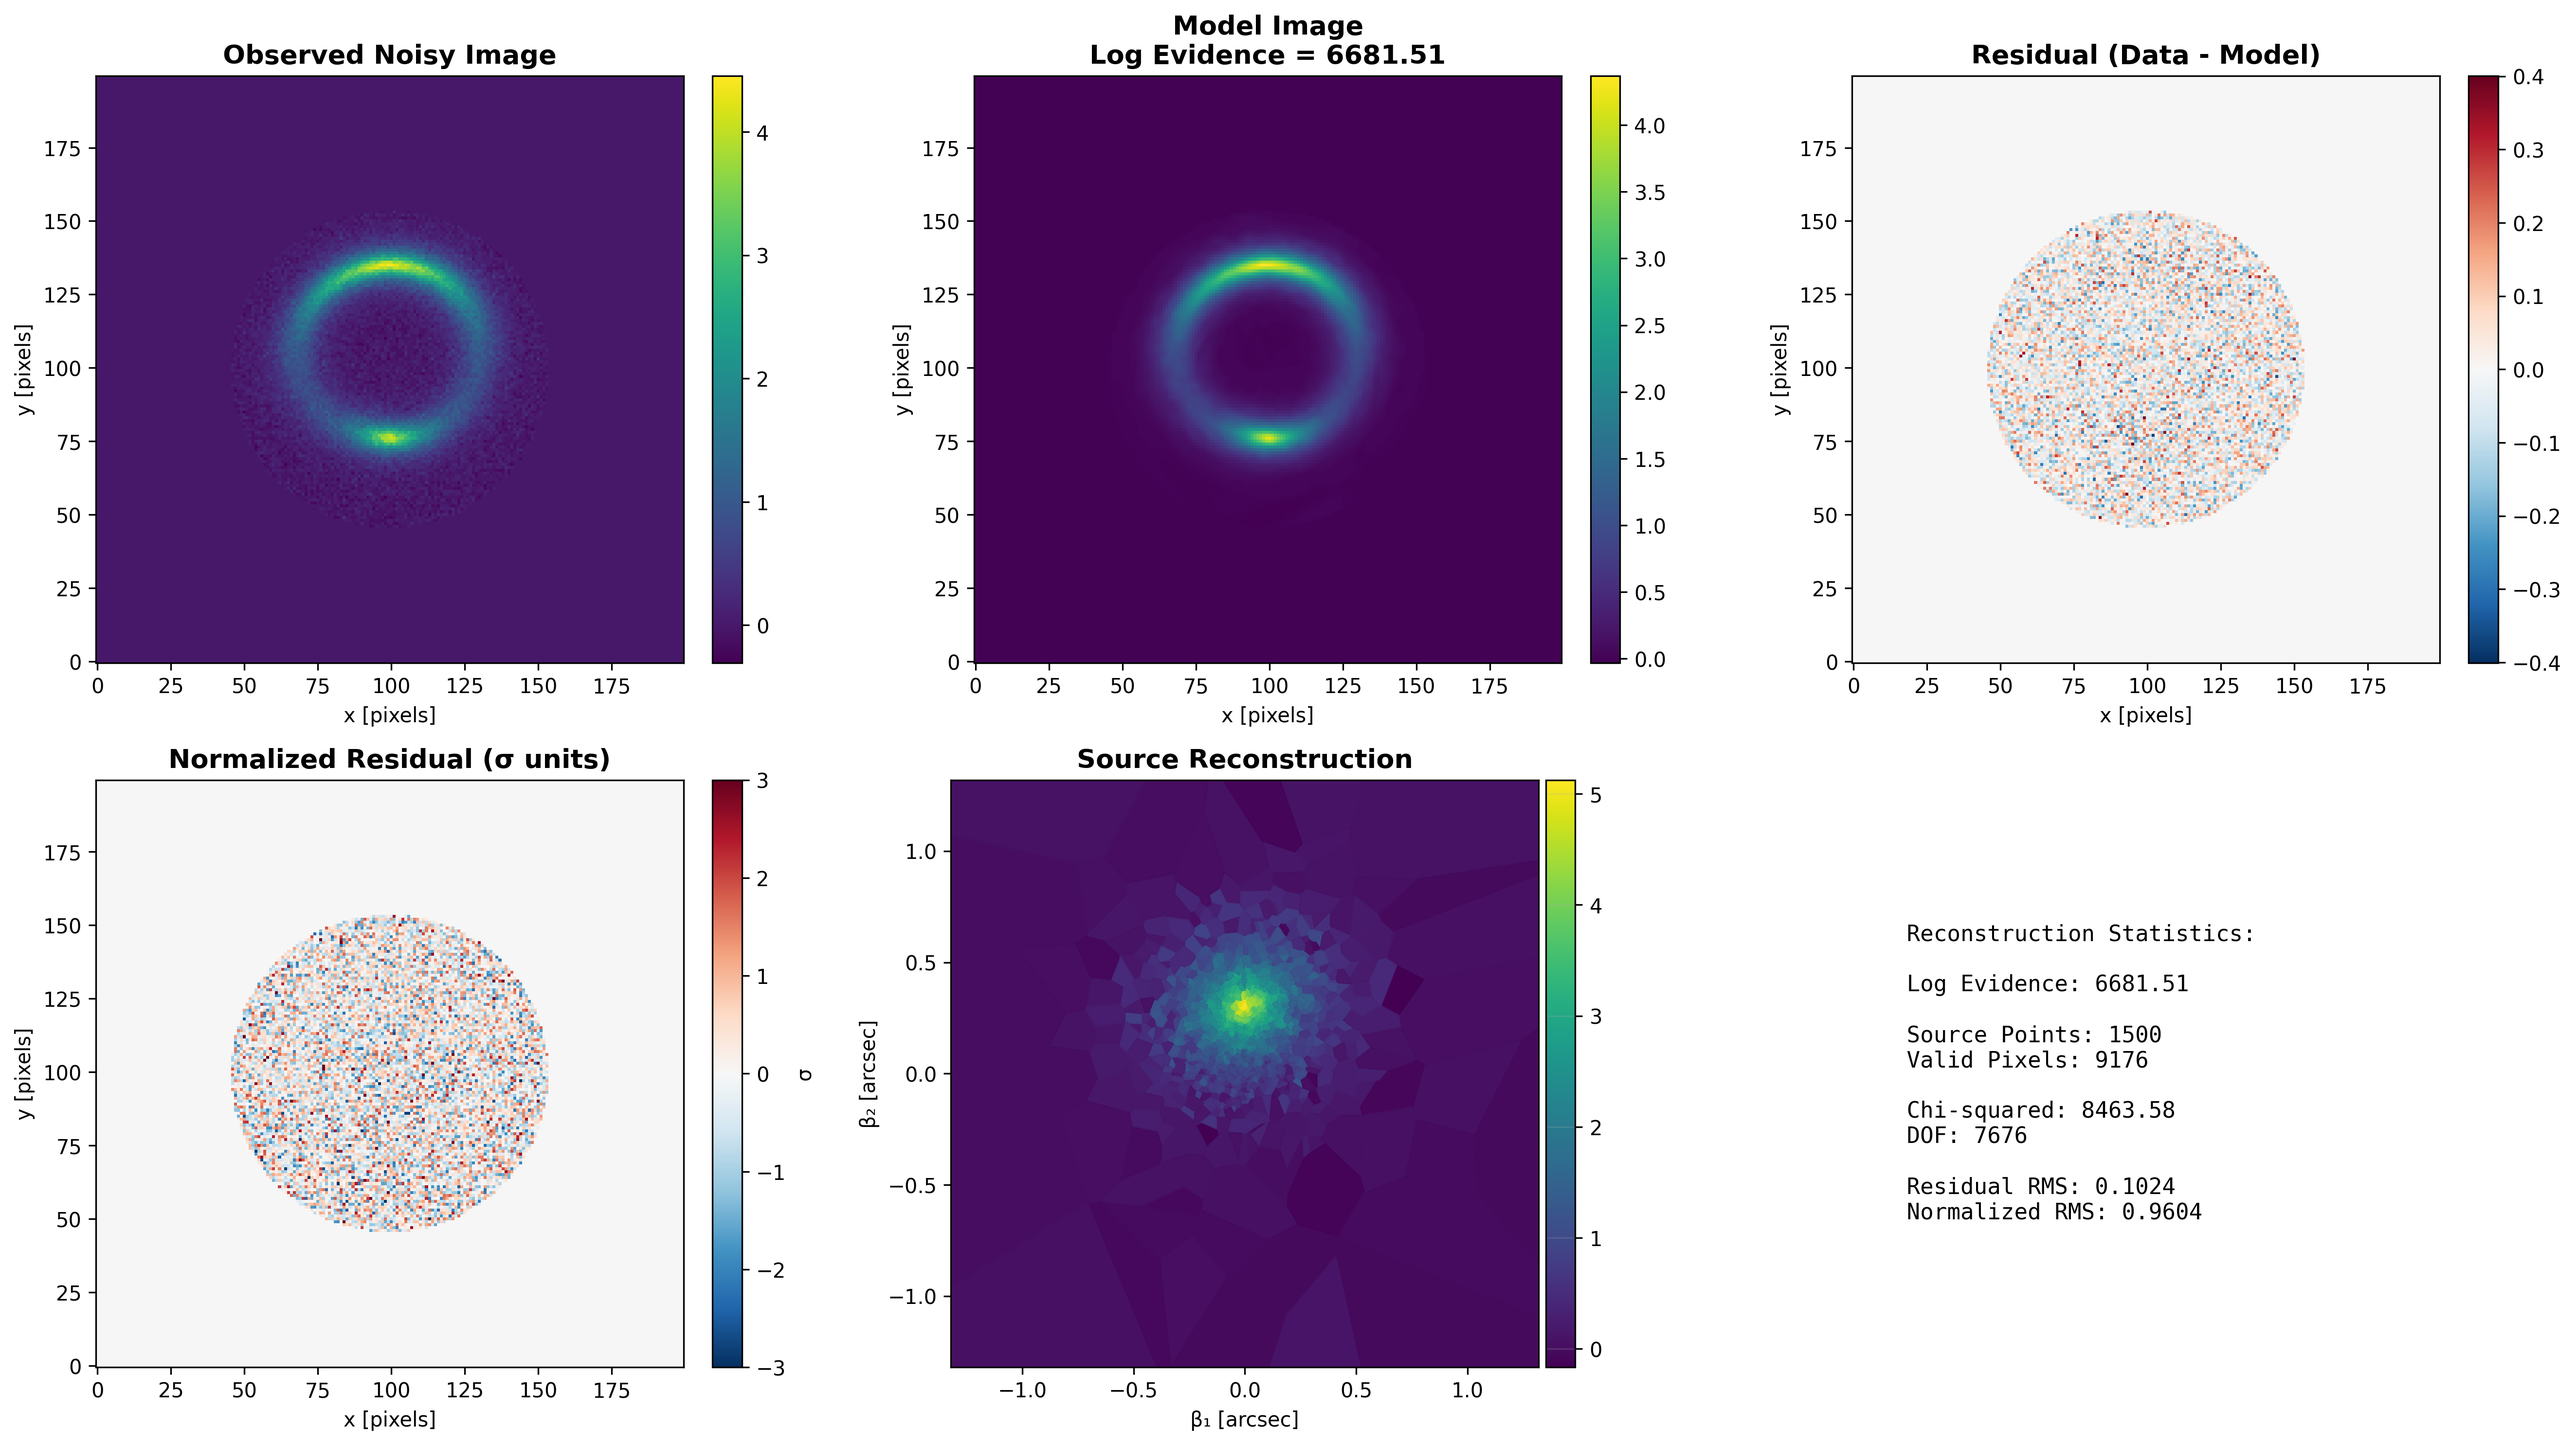
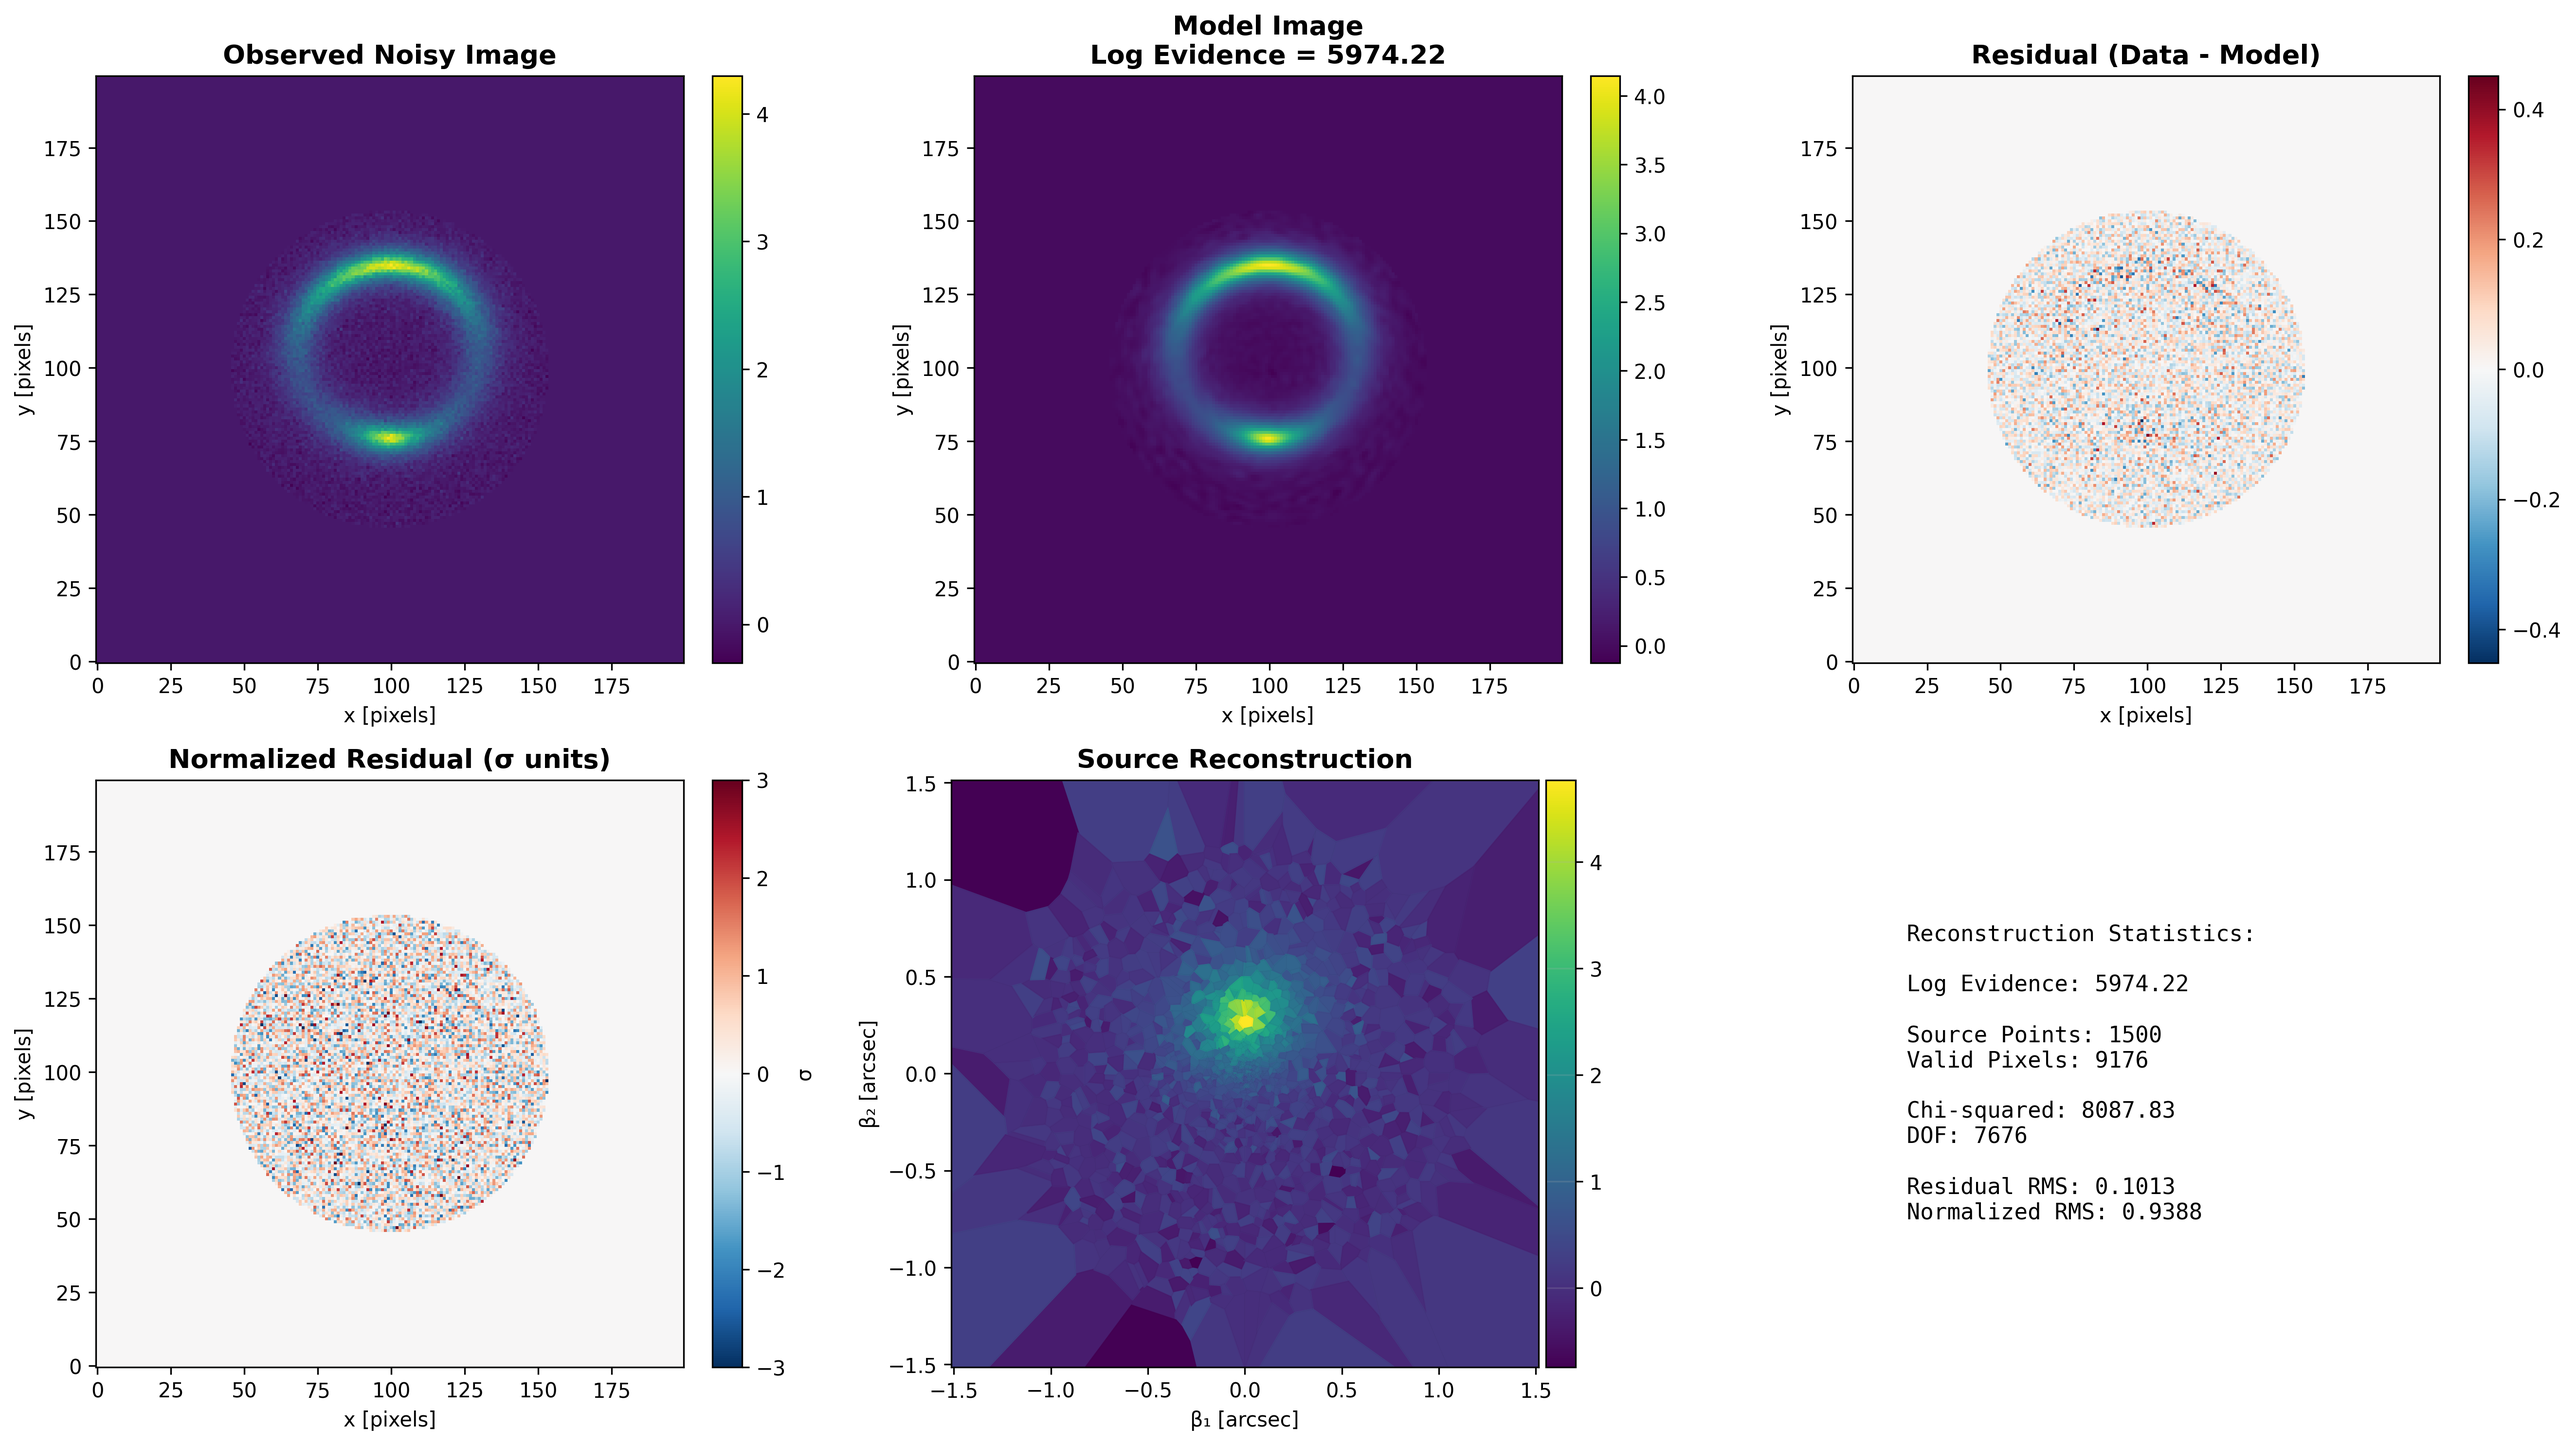
fix(ForwardSimulation): initialize lensed_source_image with ones instead of copy refactor(PhysicalModel): set default mesh_alpha to 0.0 test: update test to reflect new mesh_alpha default

diff --git a/tests/test_pixelized_source.py b/tests/test_pixelized_source.py
@@ -597,7 +597,7 @@ class TestPixelizedSourceModel:
         assert model.reg_coefficient.value == 1.0, "Default reg_coefficient should be 1.0"
         assert model.reg_type == 'exp', "Default reg_type should be 'exp'"
         assert model.n_source_points == 1500, "Default n_source_points should be 1500"
-        assert model.mesh_alpha == 1.5, "Default mesh_alpha should be 1.5"
+        assert model.mesh_alpha == 0.0, "Default mesh_alpha should be 0.0"
         assert model.k_neighbors == 5, "Default k_neighbors should be 5"
     
     def test_model_custom_values(self):

diff --git a/TinyLensGpu/ForwardSimulation/LensImage/pixelized.py b/TinyLensGpu/ForwardSimulation/LensImage/pixelized.py
@@ -45,7 +45,7 @@ class PixelizedLensSimulator:
         self.mask = jnp.array(mask)
         
         if lensed_source_image is None:
-            lensed_source_image = np.copy(image_data)
+            lensed_source_image = np.ones_like(image_data)
         self.lensed_source_image = jnp.array(lensed_source_image)
         
         xgrid_2d, ygrid_2d = make_grid_2d(self.npix, self.dpix)

diff --git a/TinyLensGpu/PhysicalModel/LensImage/Pixelized/pixelized_source.py b/TinyLensGpu/PhysicalModel/LensImage/Pixelized/pixelized_source.py
@@ -79,7 +79,7 @@ class PixelizedSourceModel(ck.Module):
         reg_coefficient: float = 1.0,
         reg_type: str = 'exp',
         n_source_points: int = 1500,
-        mesh_alpha: float = 1.5,
+        mesh_alpha: float = 0.0,
         mesh_blur_sigma: float = 0.0,
         mesh_method: str = 'random',
         mesh_seed: int = 42,
